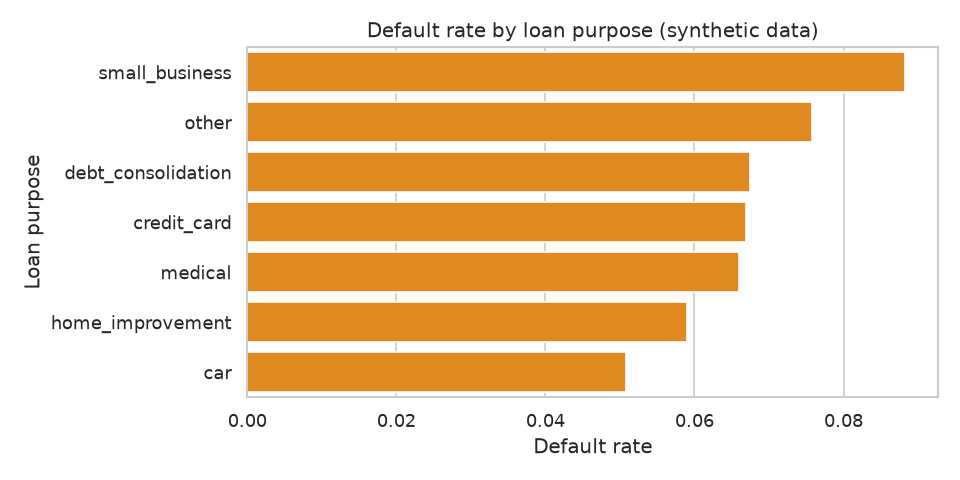
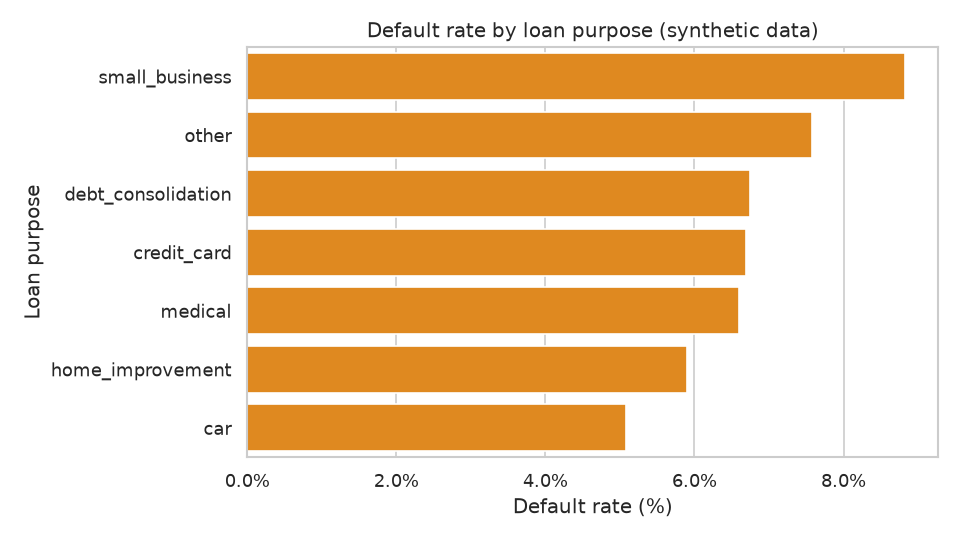
credit-default-risk: Show default rates as percentages, clarify chart labels

diff --git a/credit-default-risk/src/eda.py b/credit-default-risk/src/eda.py
@@ -14,6 +14,7 @@ matplotlib.use("Agg")  # non-interactive backend: figures are only saved to file
 import matplotlib.pyplot as plt
 import pandas as pd
 import seaborn as sns
+from matplotlib.ticker import PercentFormatter
 
 PROJECT_DIR = Path(__file__).resolve().parents[1]
 DATA_DIR = PROJECT_DIR / "data"
@@ -85,15 +86,18 @@ def plot_figures(data: pd.DataFrame) -> None:
     FIG_DIR.mkdir(parents=True, exist_ok=True)
     sns.set_theme(style="whitegrid")
 
-    # 1. Default rate by credit score band
+    # 1. Default rate by credit score band (rates shown as percentages)
     by_band = default_rate_by(data, "score_band").sort_index().reset_index()
     by_band["score_band"] = by_band["score_band"].astype(str)
-    fig, ax = plt.subplots(figsize=(7, 4))
+    overall = data["default"].mean()
+    fig, ax = plt.subplots(figsize=(7, 4.5))
     sns.barplot(data=by_band, x="score_band", y="default_rate", color="steelblue", ax=ax)
-    ax.axhline(data["default"].mean(), color="red", linestyle="--", label="Overall default rate")
+    ax.axhline(overall, color="red", linestyle="--",
+               label=f"Overall default rate ({overall:.1%})")
+    ax.yaxis.set_major_formatter(PercentFormatter(xmax=1.0))
     ax.set_title("Default rate by credit score band (synthetic data)")
-    ax.set_xlabel("Credit score band")
-    ax.set_ylabel("Default rate")
+    ax.set_xlabel("Credit score band (FICO-style score range)")
+    ax.set_ylabel("Default rate (%)")
     ax.legend()
     fig.tight_layout()
     fig.savefig(FIG_DIR / "default_rate_by_score_band.png", dpi=120)
@@ -101,21 +105,22 @@ def plot_figures(data: pd.DataFrame) -> None:
 
     # 2. Default rate by loan purpose
     by_purpose = default_rate_by(data, "loan_purpose").reset_index()
-    fig, ax = plt.subplots(figsize=(8, 4))
+    fig, ax = plt.subplots(figsize=(8, 4.5))
     sns.barplot(data=by_purpose, x="default_rate", y="loan_purpose", color="darkorange", ax=ax)
+    ax.xaxis.set_major_formatter(PercentFormatter(xmax=1.0))
     ax.set_title("Default rate by loan purpose (synthetic data)")
-    ax.set_xlabel("Default rate")
+    ax.set_xlabel("Default rate (%)")
     ax.set_ylabel("Loan purpose")
     fig.tight_layout()
     fig.savefig(FIG_DIR / "default_rate_by_purpose.png", dpi=120)
     plt.close(fig)
 
     # 3. Distribution of debt-to-income by default status
-    fig, ax = plt.subplots(figsize=(7, 4))
+    fig, ax = plt.subplots(figsize=(7, 4.5))
     sns.boxplot(data=data, x="default", y="debt_to_income", ax=ax)
     ax.set_title("Debt-to-income by default status (synthetic data)")
-    ax.set_xlabel("Default (0 = repaid, 1 = defaulted)")
-    ax.set_ylabel("Debt-to-income")
+    ax.set_xlabel("Default status (0 = repaid, 1 = defaulted)")
+    ax.set_ylabel("Debt-to-income ratio (total debt / annual income)")
     fig.tight_layout()
     fig.savefig(FIG_DIR / "dti_by_default.png", dpi=120)
     plt.close(fig)
@@ -127,7 +132,8 @@ def plot_figures(data: pd.DataFrame) -> None:
     corr = data[num_cols].corr()
     fig, ax = plt.subplots(figsize=(9, 7))
     sns.heatmap(corr, annot=True, fmt=".2f", cmap="coolwarm", center=0,
-                square=True, cbar_kws={"shrink": 0.8}, ax=ax)
+                square=True, cbar_kws={"shrink": 0.8, "label": "Pearson correlation"},
+                ax=ax)
     ax.set_title("Correlation matrix (synthetic data)")
     fig.tight_layout()
     fig.savefig(FIG_DIR / "correlation_heatmap.png", dpi=120)
